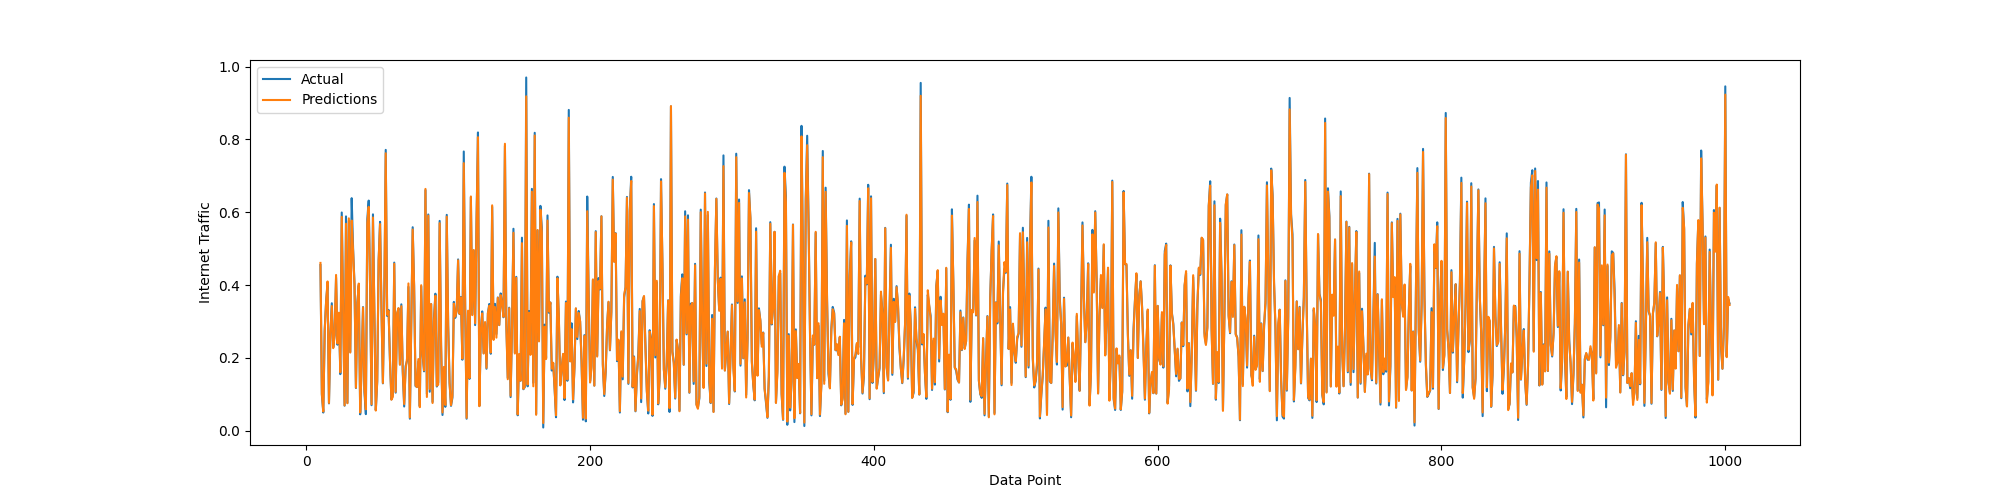
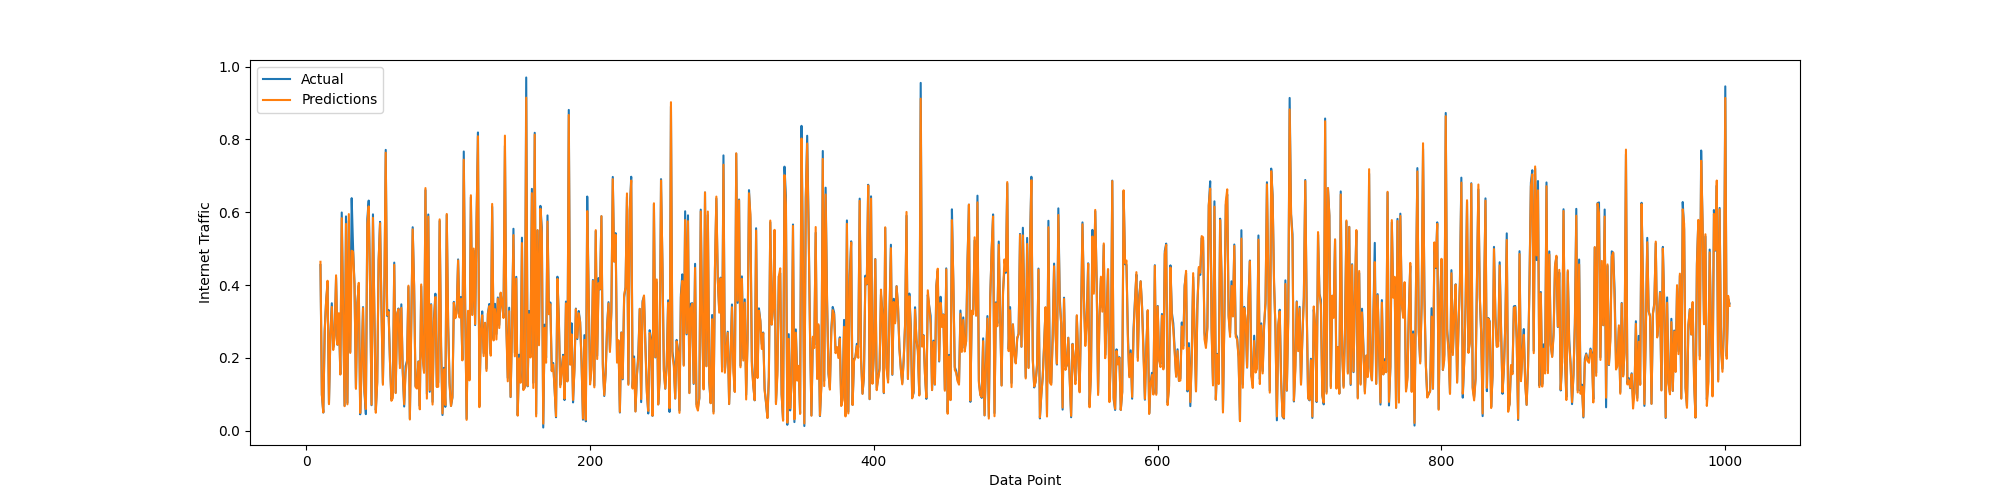
LSTM_Self-attention

Changed region(s): [[0.775, 0.69, 0.806, 0.72], [0.558, 0.69, 0.589, 0.72]]

diff --git a/3_training/LSTM_Self-attention.py b/3_training/LSTM_Self-attention.py
@@ -8,6 +8,7 @@ from sklearn.preprocessing import MinMaxScaler
 from sklearn.model_selection import train_test_split
 import matplotlib.pyplot as plt
 from tqdm import tqdm
+import torch.nn.functional as F
 
 # Set the seed
 my_seed = 2023
@@ -52,18 +53,34 @@ Y_test = torch.tensor(Y_test, dtype=torch.float32).to(device)
 # Create DataLoader for training
 train_dataset = TensorDataset(X_train, Y_train)
 train_loader = DataLoader(train_dataset, batch_size=512, shuffle=True)
+class SelfAttention(nn.Module):
+    def __init__(self, input_dim):
+        super(SelfAttention, self).__init__()
+        self.query = nn.Linear(input_dim, input_dim)
+        self.key = nn.Linear(input_dim, input_dim)
+        self.value = nn.Linear(input_dim, input_dim)
 
-# Define the LSTM model using PyTorch
+    def forward(self, x):
+        q = self.query(x)
+        k = self.key(x)
+        v = self.value(x)
+        attn_weights = F.softmax(q @ k.transpose(-2, -1) / (k.shape[-1] ** 0.5), dim=-1)
+        output = attn_weights @ v
+        return output, attn_weights
+
+# Define the LSTM model using PyTorch with Self-Attention
 class LSTMModel(nn.Module):
     def __init__(self):
         super(LSTMModel, self).__init__()
         self.lstm1 = nn.LSTM(1, 512, batch_first=True)
+        self.self_attention = SelfAttention(512)
         self.lstm2 = nn.LSTM(512, 128, batch_first=True)
         self.fc = nn.Linear(128, 1)
         self.activation = nn.Sigmoid()
 
     def forward(self, x):
         x, _ = self.lstm1(x)
+        x, _ = self.self_attention(x)
         x, _ = self.lstm2(x[:, -1, :].unsqueeze(1))
         x = self.fc(x[:, -1, :])
         x = self.activation(x)

diff --git a/README.md b/README.md
@@ -14,8 +14,8 @@ Network performance prediction, Transfer Learning
 平均绝对百分比误差(MAPE): 0.030823806300759315
 ![uk_transformer.png](3_training%2Fuk_transformer.png)
 # LSTM+Transformer
-目前失败
+
 # LSTM+Self-Attention
-根均方误差(RMSE): 6.786046166866807e-09  
-平均绝对百分比误差(MAPE): 0.025098925456404686
+根均方误差(RMSE): 9.609785795465063e-09  
+平均绝对百分比误差(MAPE): 0.03314043954014778
 ![LSTM_Self-attention.png](3_training%2FLSTM_Self-attention.png)
